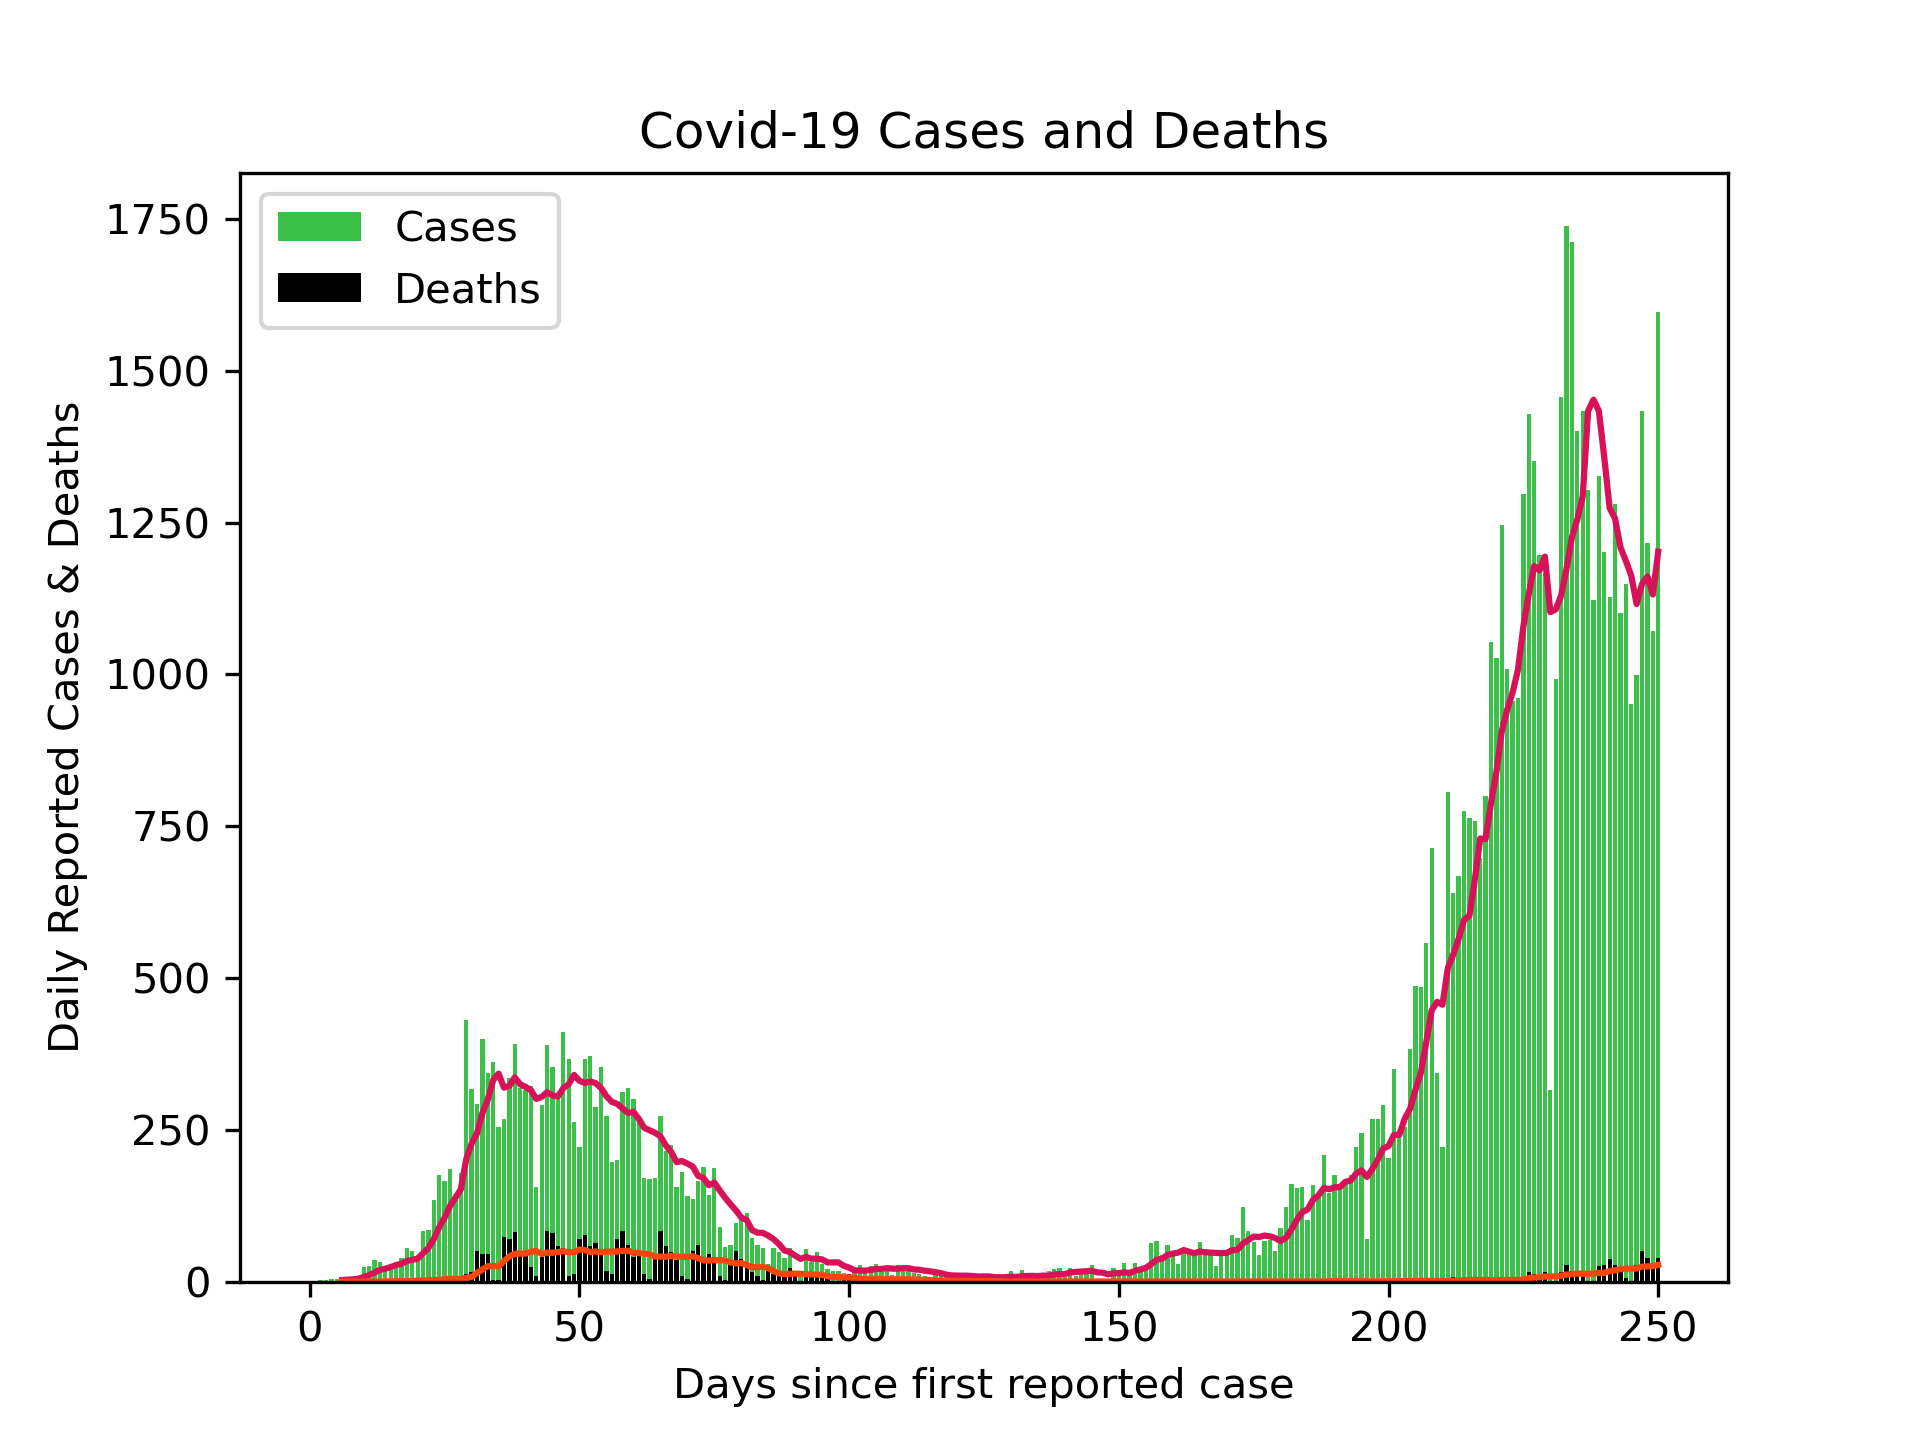
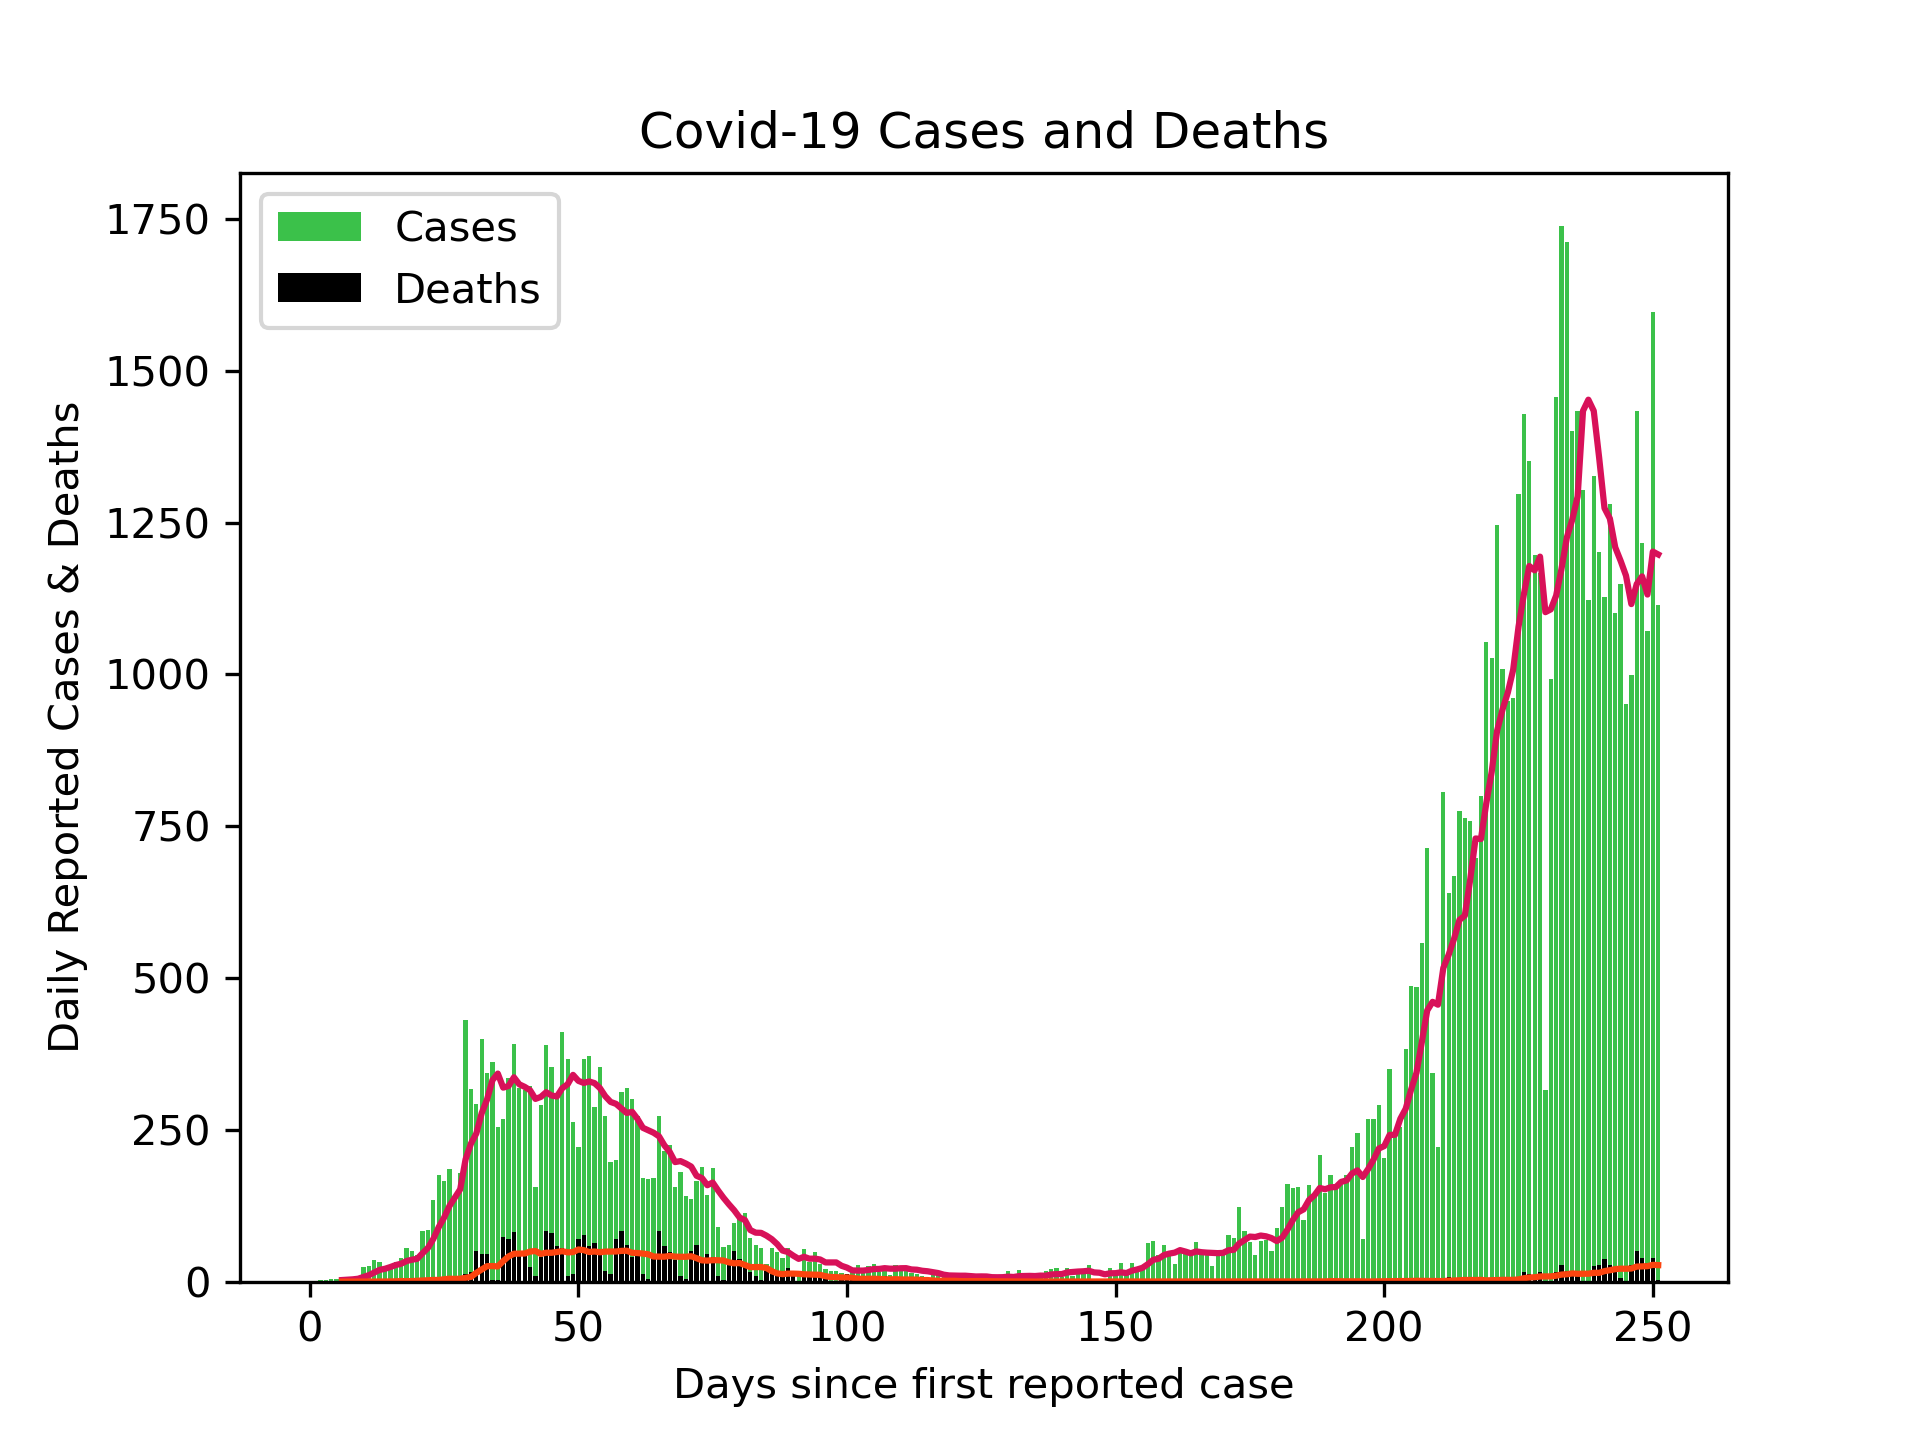
Updated Scottish cases 08/11/20

Changed region(s): [[0.5625, 0.1562, 0.9062, 0.9375], [0.2188, 0.7188, 0.4688, 0.9375]]

diff --git a/README.md b/README.md
@@ -1,3 +1,3 @@
-# Scottish Cases 07/11/20
+# Scottish Cases 08/11/20
 ![alt](scottish_cases.png)
 
